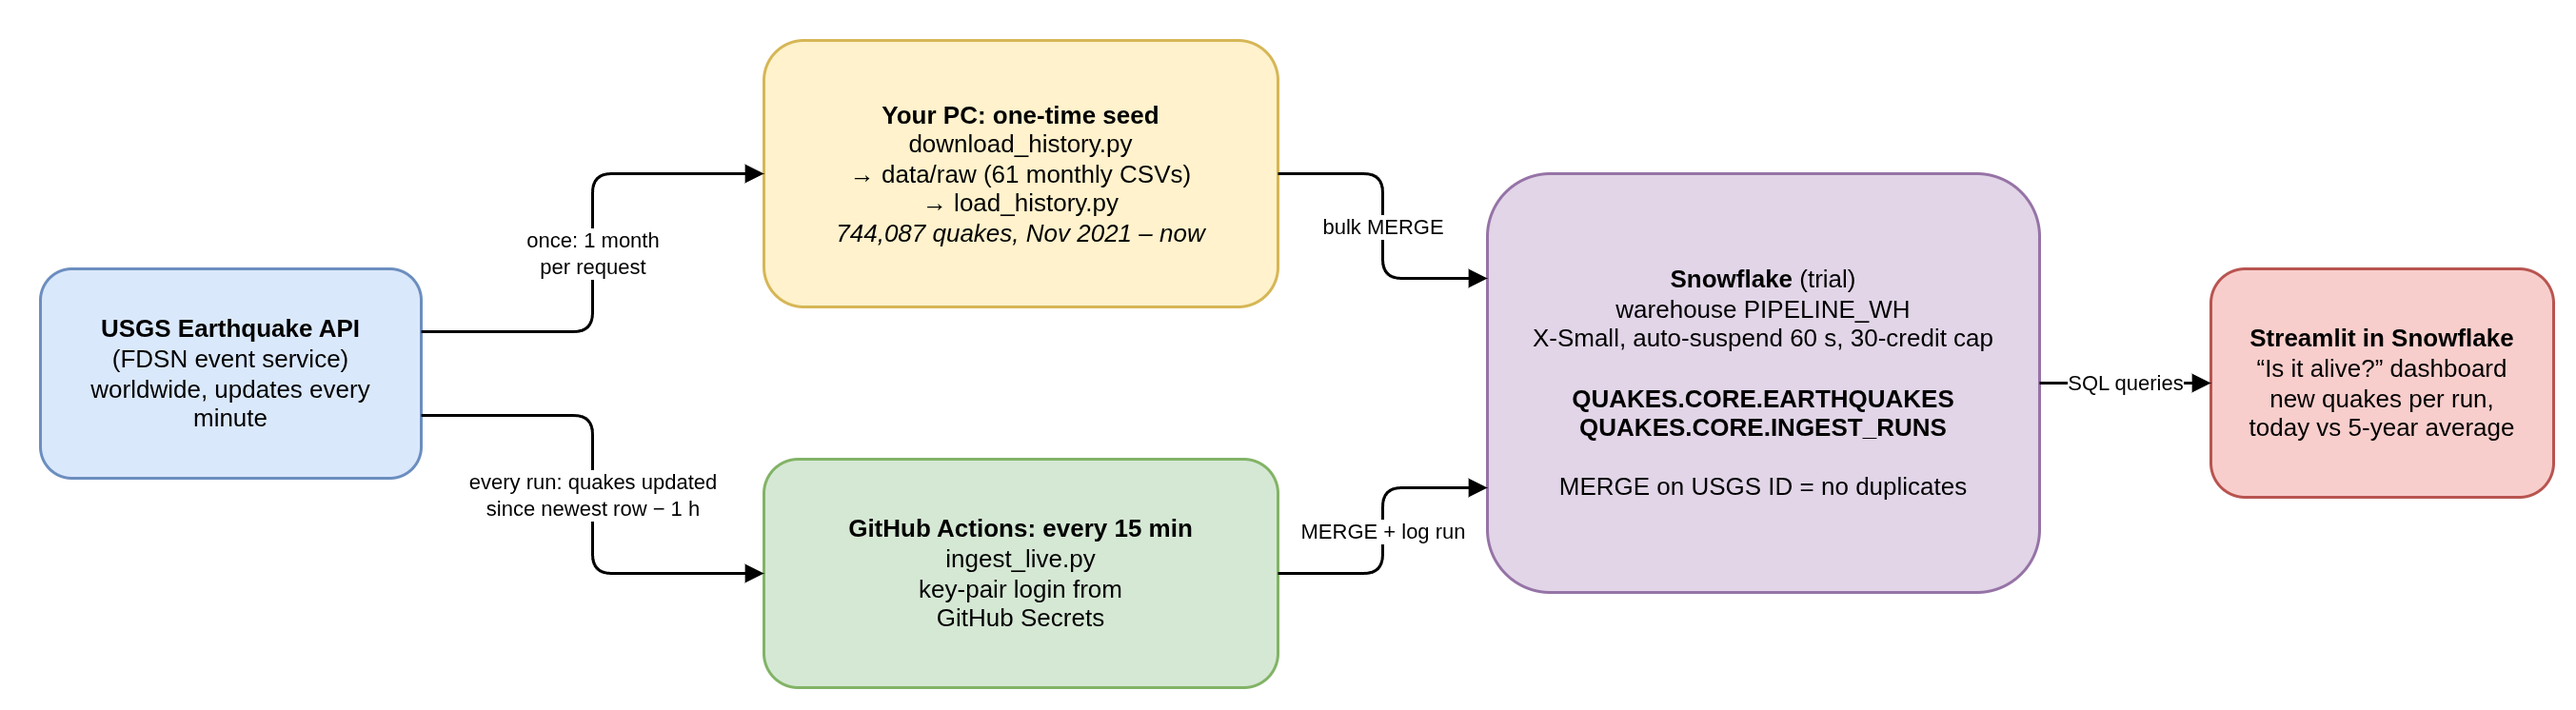
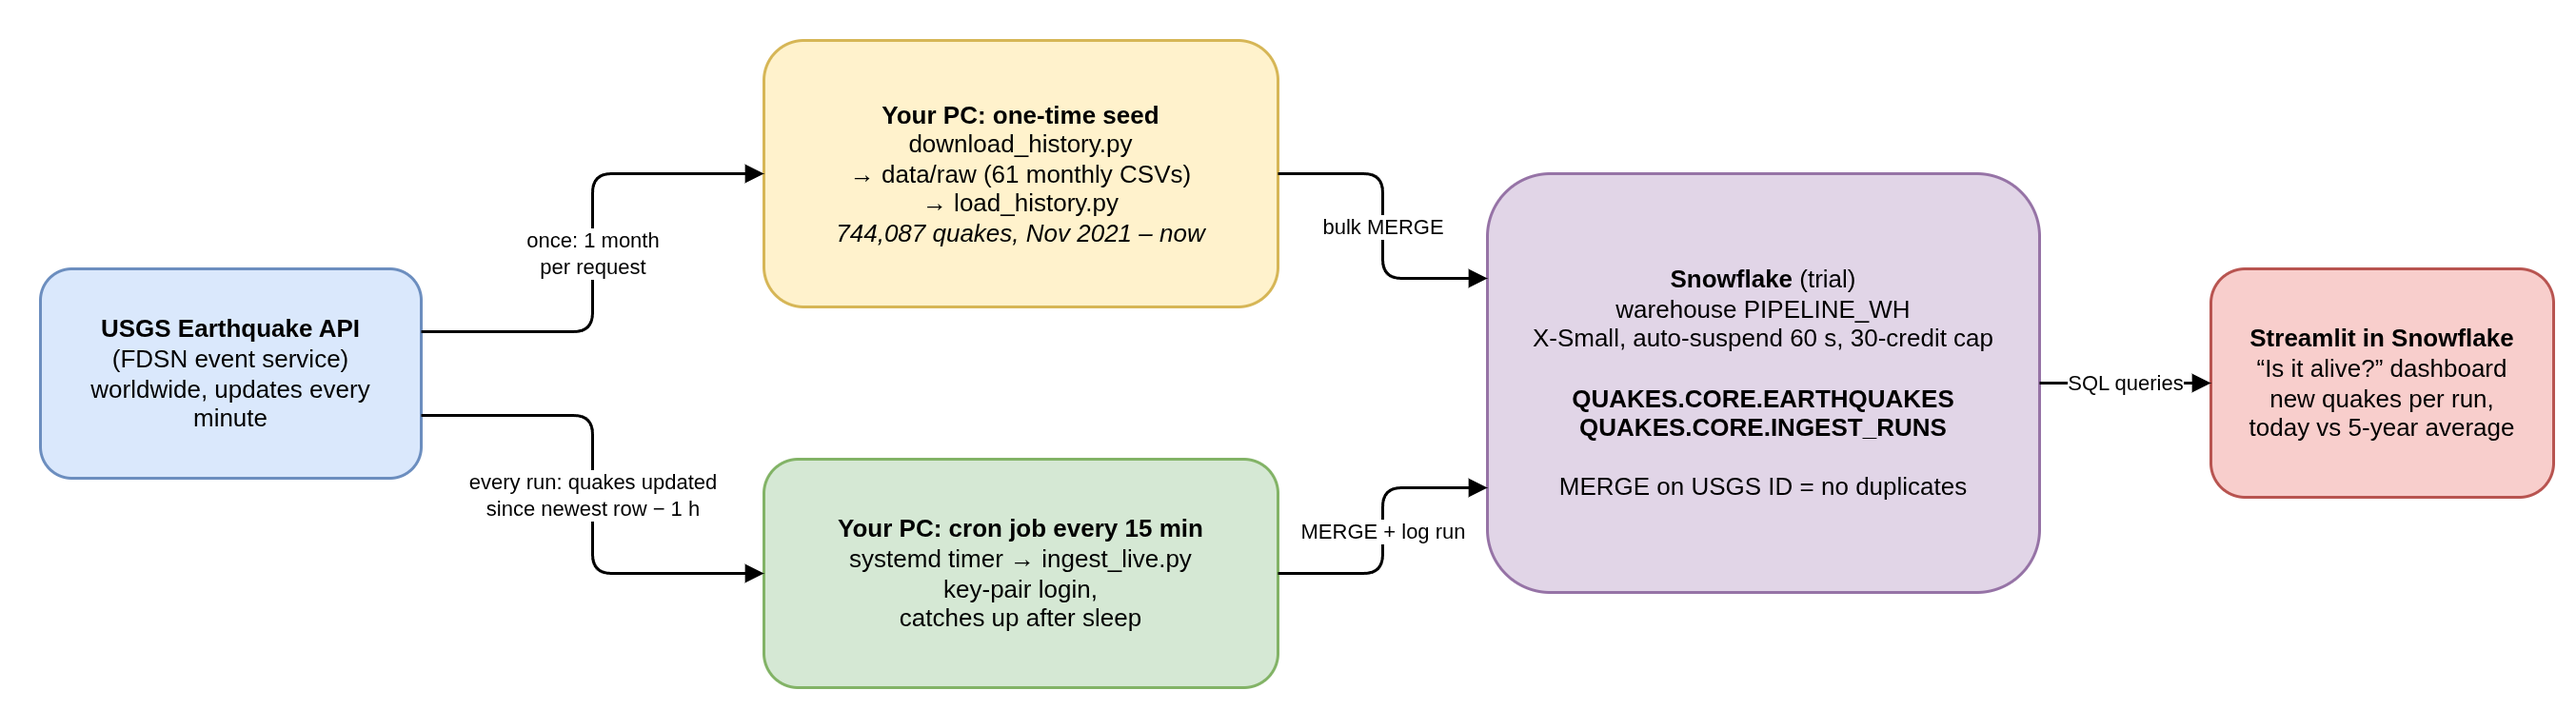
Schedule the live job with a systemd timer on my PC; GitHub workflow is manual-only
GitHub's scheduled trigger never fired on the new repo. deploy/ holds the
service and timer (every 15 min, Persistent=true). README, dashboard caption
and diagram updated.

Changed region(s): [[0.3104, 0.7091, 0.4656, 0.8941]]

diff --git a/dashboard/streamlit_app.py b/dashboard/streamlit_app.py
@@ -48,7 +48,7 @@ with left:
         FROM {DB}.INGEST_RUNS WHERE STATUS <> 'seed' ORDER BY RUN_AT
     """)
     st.bar_chart(runs, x="RUN_AT", y="NEW_QUAKES")
-    st.caption("Each bar is one run of the 15-minute GitHub Actions job (times in UTC).")
+    st.caption("Each bar is one run of the 15-minute cron job on my PC (times in UTC).")
 
 with right:
     st.subheader("Today vs 5-year average, by hour (UTC)")

diff --git a/README.md b/README.md
@@ -1,7 +1,7 @@
 # Quake Pipeline
 
 CS 452 data pipeline: five years of USGS earthquake history bulk-loaded into Snowflake, plus a
-GitHub Actions job that pulls new quakes every 15 minutes with nobody touching it, shown live
+cron job (systemd timer on my PC) that pulls new quakes every 15 minutes with nobody touching it, shown live
 on a Streamlit in Snowflake dashboard.
 
 ![Architecture](docs/architecture.png)
@@ -13,7 +13,7 @@ Editable source: [docs/architecture.drawio](docs/architecture.drawio)
 | Stage | Choice | Why |
 |---|---|---|
 | 1. Data source | **USGS Earthquakes** (FDSN event API) | No API key, worldwide, updated every minute, and the same CSV format for history and live data, so one table and one parser serve both paths. |
-| 2. Ingestion | **GitHub Actions**, cron `7,22,37,52 * * * *` (every 15 min, off the busy :00 mark) | Free for a public repo, version-controlled with the code, and runs when my laptop is off. 15 minutes instead of hourly gives several unattended runs per hour to prove liveness. |
+| 2. Ingestion | **Cron on my PC**: a systemd timer, every 15 min (`OnCalendar=*:00/15`) | Built into Linux, no account, version-controlled in [`deploy/`](deploy/). Runs while I'm logged out, and `Persistent=true` runs once right after the PC wakes if a run was missed. 15 minutes gives several unattended runs per hour. I tried GitHub Actions first, but its schedule never fired on the new repo (only manual runs worked), so its workflow is kept as a manual button only. |
 | 3. Buffer | None (direct writes) | At ~20-40 quakes per run, a queue adds cost and moving parts without a benefit; the assignment allows direct writes at this volume. |
 | 4. Store | **Snowflake** (30-day trial, X-Small warehouse) | A widely used cloud warehouse; storage and compute are separate, the warehouse sleeps after 60 s, and `MERGE` gives clean upserts. Trial credit ($400) easily covers the one-week project. |
 | 5. Liveness | **Streamlit in Snowflake** | Runs next to the data with no extra account or credentials. (Snowflake removed its old built-in dashboards in 2026.) |
@@ -27,10 +27,11 @@ fit. Months already on disk are skipped, so USGS is never asked twice for the sa
 [`scripts/load_history.py`](scripts/load_history.py) bulk-loads those saved files
 (744,087 quakes) through a temporary staging table and a `MERGE`.
 
-**Live (every 15 minutes, GitHub Actions).** [`scripts/ingest_live.py`](scripts/ingest_live.py)
+**Live (every 15 minutes, systemd timer on my PC).** [`scripts/ingest_live.py`](scripts/ingest_live.py)
 asks Snowflake for the newest `UPDATED_AT` it has, asks USGS for every quake updated since then
 minus a 1-hour overlap, merges them in, and writes one row to `INGEST_RUNS`
-(fetched / inserted / updated / status). Workflow: [`.github/workflows/ingest.yml`](.github/workflows/ingest.yml).
+(fetched / inserted / updated / status). Schedule: [`deploy/quake-ingest.timer`](deploy/quake-ingest.timer) starts
+[`deploy/quake-ingest.service`](deploy/quake-ingest.service). Logs: `journalctl --user -u quake-ingest`.
 
 ## Idempotency (no duplicates)
 
@@ -55,14 +56,17 @@ overlap is absorbed the same way.
 - **Runs that fetch nothing new** are normal (no quakes, or all already loaded) and are logged
   as `ok` with `INSERTED = 0`.
 - **USGS down at 3 a.m.** The request retries 3 times, then the run logs `error` in
-  `INGEST_RUNS` and fails, so GitHub shows a red X. Nothing is lost: the next run starts from
+  `INGEST_RUNS` and exits with a failure, which systemd records (`systemctl --user status quake-ingest`). Nothing is lost: the next run starts from
   the newest data in the table again and **backfills** everything missed. Backfill was chosen
   over skipping because the source keeps history, so a late fetch is complete and correct.
   Limit: without an explicit start time, USGS searches the last 30 days, so an outage longer
   than that would need a manual history load.
-- **GitHub schedule delay.** GitHub may start scheduled runs several minutes late when busy, so
-  run times in `INGEST_RUNS` are not exactly 15 minutes apart. The backfill design makes late
-  runs harmless.
+- **PC asleep or off.** No runs happen while the PC is off; the chart shows a gap. On wake,
+  `Persistent=true` runs the job once right away, and the backfill design pulls everything
+  missed, so the data has no gap even if the run log does.
+- **Why not GitHub Actions.** Its scheduled trigger never started on this new repo (only the
+  manual button worked), a known problem with GitHub schedules. The workflow stays as a manual
+  backup.
 - **Spending cap.** A Snowflake resource monitor suspends the warehouse at 30 credits. If that
   ever triggered, runs would fail visibly rather than run up a bill.
 
@@ -71,9 +75,10 @@ overlap is absorbed the same way.
 - The job logs in as `PIPELINE_BOT`, a Snowflake **service user with no password**: key-pair
   login only (Snowflake now blocks password-only logins for service users).
 - Its role `PIPELINE_ROLE` can only use `PIPELINE_WH` and read/write `QUAKES.CORE`.
-- The private key lives in a locked folder on my PC and in **GitHub Actions Secrets**
-  (`SNOWFLAKE_ACCOUNT`, `SNOWFLAKE_USER`, `SNOWFLAKE_WAREHOUSE`, `SNOWFLAKE_PRIVATE_KEY`).
-  It was piped from file to `gh secret set` without being printed. GitHub masks secrets in logs.
+- The private key lives in a locked folder on my PC. The timer reads the account, user and key
+  path from `~/.config/quake-pipeline.env` (owner-only, not in git).
+- A copy is in **GitHub Actions Secrets** for the manual button, piped from file to
+  `gh secret set` without being printed. GitHub masks secrets in logs.
 - `.gitignore` blocks `*.p8`, `*.pem`, `*.key` and `.env` files; a search of the repo finds no
   key text. Only the **public** key appears, in [`sql/02_robot_user.sql`](sql/02_robot_user.sql).
 
@@ -82,7 +87,7 @@ overlap is absorbed the same way.
 | Item | Billed |
 |---|---|
 | Snowflake | **$0**: 30-day trial with $400 of free credit, no card on file. Expected use for the week: roughly 2-3 credits/day (each 15-minute run wakes the X-Small warehouse for about a minute plus the 60 s auto-suspend), well under the 30-credit cap. |
-| GitHub Actions | **$0**: free for public repositories. |
+| Cron on my PC | **$0**: built into Linux. |
 | USGS API | **$0**: free public service. |
 
 Actual credit use is in Snowsight under **Admin → Cost management**. After the one-week
@@ -92,6 +97,7 @@ follow-up the warehouse, database and users are dropped and the trial is left to
 
 - [`sql/01_tables.sql`](sql/01_tables.sql): warehouse, spending cap, database, tables
 - [`sql/02_robot_user.sql`](sql/02_robot_user.sql): limited role and key-only service user
+- [`deploy/`](deploy/): systemd service and timer (the cron job)
 - [`dashboard/streamlit_app.py`](dashboard/streamlit_app.py): the dashboard (pasted into a Snowflake workspace)
 
 ## Run it yourself
@@ -102,4 +108,9 @@ export SNOWFLAKE_ACCOUNT=... SNOWFLAKE_USER=PIPELINE_BOT SNOWFLAKE_PRIVATE_KEY_P
 python scripts/download_history.py --start 2021-11-01   # once
 python scripts/load_history.py                          # safe to repeat
 python scripts/ingest_live.py                           # what the schedule runs
+
+# install the 15-minute timer (login settings in ~/.config/quake-pipeline.env)
+ln -s "$PWD"/deploy/quake-ingest.* ~/.config/systemd/user/
+systemctl --user daemon-reload && systemctl --user enable --now quake-ingest.timer
+loginctl enable-linger "$USER"   # keep it running while logged out
 ```
